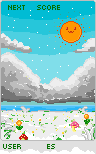
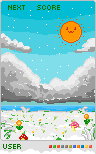
💄 敵の点数を表示する領域に落下アイテムの順番を色で表示した

Changed region(s): [[0.4688, 0.9351, 0.9688, 0.987]]

diff --git a/lib/features/ui/labels/opponent_score.dart b/lib/features/ui/labels/opponent_score.dart
@@ -17,7 +17,7 @@ class OpponentScore {
       position: Vector2(Config.WORLD_WIDTH * .953, Config.WORLD_HEIGHT * .962),
       color: const Color.fromRGBO(255, 255, 255, 1),
     );
-    scoreLabel.isVisible = true;
+    scoreLabel.isVisible = false;
     return OpponentScore._(scoreLabel);
   }
 
@@ -30,7 +30,7 @@ class OpponentScore {
   }
 
   void show() {
-    _scoreLabel.isVisible = true;
+    _scoreLabel.isVisible = false;
   }
 
   void hide() {
